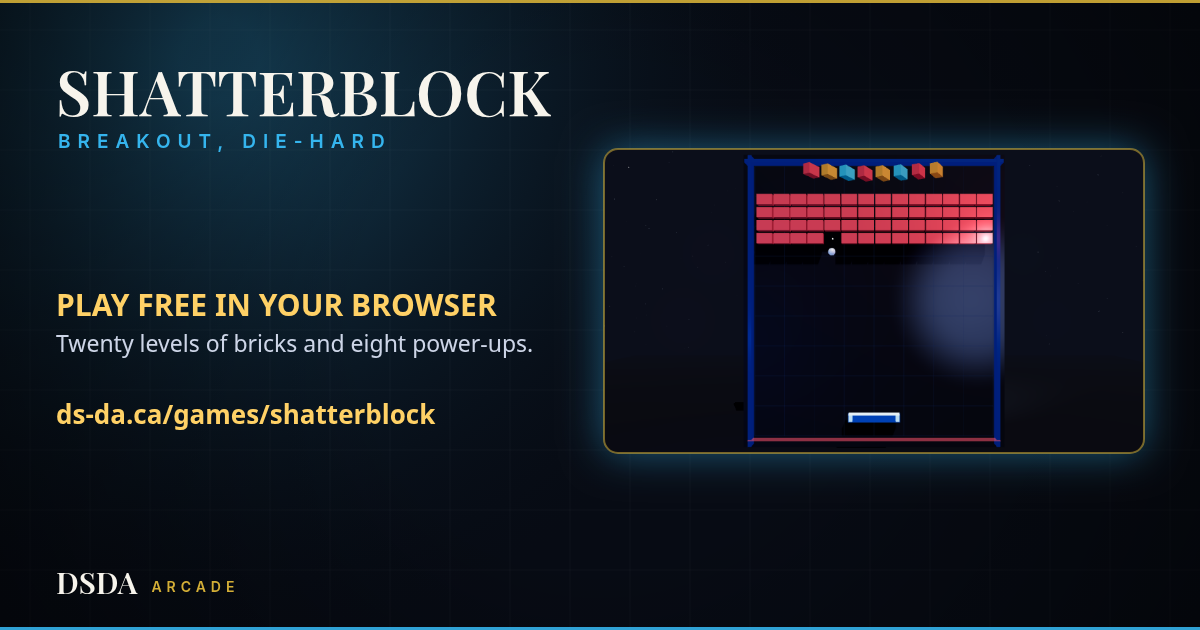
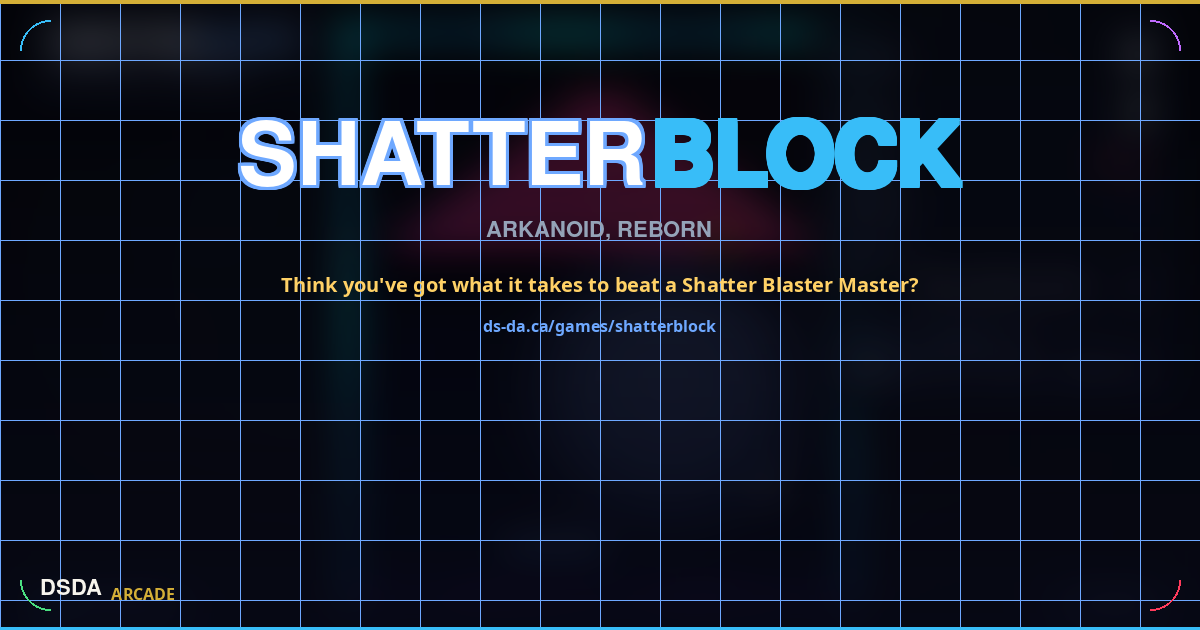
shatterblock: new cabinet screenshot, OG share graphic, redesigned neon score card (tier titles, challenge line, gradient borders)

diff --git a/games/shatterblock/index.html b/games/shatterblock/index.html
@@ -2581,11 +2581,10 @@ function saveToStorage(name, s) {
   return top;
 }
 
-// ---------------- share score ----------------
-// ---------------- share score (DSDA house card) ----------------
-const SHARE_CARD = { name: 'SHATTERBLOCK', tag: 'Breakout, die-hard', id: 'shatterblock', accent: 0x38bdf8 };
+// ---------------- share score (neon arcade card) ----------------
+const SHARE_CARD = { name: 'SHATTERBLOCK', tag: 'ARKANOID, REBORN', id: 'shatterblock', accent: 0x38bdf8 };
 function shareText(s) {
-  return 'I broke through level ' + level + ' with ' + s + ' in ShatterBlock — think you can beat me? \ud83c\udfae';
+  return 'I broke through level ' + level + ' with ' + s + ' in ShatterBlock — think you got what it takes to beat a Shatter Blaster Master? \ud83c\udfae';
 }
 let __shot = null;
 (function(){ const im = new Image(); im.onload = () => { __shot = im; }; im.src = 'screenshot.png'; })();
@@ -2596,76 +2595,155 @@ function _rr(x, px, py, w, h, r) {
   x.beginPath();
   x.moveTo(px + r, py);
   x.arcTo(px + w, py, px + w, py + h, r);
-  x.arcTo(px + w, py + h, px + w, py + h - r, r);
-  x.arcTo(px + w, py + h, px, py + h, r);
-  x.arcTo(px, py + h, px, py + h - r, r);
+  x.arcTo(px + w, py + h, px, py + h - r, r);
+  x.arcTo(px, py + h, px, py + h, r);
+  x.arcTo(px, py + h, px, py + r, r);
   x.arcTo(px, py + r, px, py, r);
-  x.arcTo(px, py, px + r, py, r);
+  x.arcTo(px + r, py, px + w, py, r);
   x.closePath();
 }
 function _spacedL(x, text, px, y, sp) {
   if ('letterSpacing' in x) { x.letterSpacing = sp + 'px'; x.fillText(text, px, y); x.letterSpacing = '0px'; return; }
   for (const ch of text) { x.fillText(ch, px, y); px += x.measureText(ch).width + sp; }
 }
+// tier title based on score (matches the leaderboard tiers)
+function _tierTitle(s) {
+  if (s >= 50000) return 'SHATTER BLASTER MASTER';
+  if (s >= 15000) return 'SHATTER BLASTER';
+  if (s >= 5000) return 'BLASTER';
+  return 'ROOKIE BLASTER';
+}
 async function makeScoreCard(scoreLine, subLine) {
   const W = 1200, H = 630;
   const cv = document.createElement('canvas');
   cv.width = W; cv.height = H;
   const x = cv.getContext('2d');
-  try { if (document.fonts && document.fonts.load) await document.fonts.load('600 62px "Playfair Display"'); } catch (e) {}
   const A = SHARE_CARD.accent;
-  x.fillStyle = '#070b14'; x.fillRect(0, 0, W, H);
-  const g1 = x.createRadialGradient(220, 60, 40, 220, 60, 620);
-  g1.addColorStop(0, _hexA(A, 0.30)); g1.addColorStop(1, 'rgba(0,0,0,0)');
+  const s = parseInt(scoreLine, 10) || 0;
+
+  // --- background: dark navy + subtle grid ---
+  x.fillStyle = '#080a16'; x.fillRect(0, 0, W, H);
+  x.strokeStyle = 'rgba(110,168,255,0.04)'; x.lineWidth = 1;
+  for (let gx = 0; gx < W; gx += 60) { x.beginPath(); x.moveTo(gx, 0); x.lineTo(gx, H); x.stroke(); }
+  for (let gy = 0; gy < H; gy += 60) { x.beginPath(); x.moveTo(0, gy); x.lineTo(W, gy); x.stroke(); }
+
+  // radial glow (cyan, upper-left)
+  const g1 = x.createRadialGradient(200, 80, 30, 200, 80, 500);
+  g1.addColorStop(0, 'rgba(56,189,248,0.18)'); g1.addColorStop(1, 'rgba(0,0,0,0)');
   x.fillStyle = g1; x.fillRect(0, 0, W, H);
-  x.strokeStyle = 'rgba(255,255,255,0.035)'; x.lineWidth = 1;
-  for (let gx = 30; gx < W; gx += 60) { x.beginPath(); x.moveTo(gx, 0); x.lineTo(gx, H); x.stroke(); }
-  for (let gy = 30; gy < H; gy += 60) { x.beginPath(); x.moveTo(0, gy); x.lineTo(W, gy); x.stroke(); }
-  const vg = x.createRadialGradient(W / 2, H / 2, 240, W / 2, H / 2, 760);
-  vg.addColorStop(0, 'rgba(0,0,0,0)'); vg.addColorStop(1, 'rgba(0,0,0,0.55)');
-  x.fillStyle = vg; x.fillRect(0, 0, W, H);
-  x.fillStyle = 'rgba(212,175,55,0.9)'; x.fillRect(0, 0, W, 3);
-  // screenshot inset, right side
-  const sw = 540, sh = 304, sx = W - 56 - sw, sy = (H - sh) / 2 - 14;
+  // radial glow (purple, lower-right)
+  const g2 = x.createRadialGradient(W - 200, H - 100, 30, W - 200, H - 100, 450);
+  g2.addColorStop(0, 'rgba(192,107,255,0.12)'); g2.addColorStop(1, 'rgba(0,0,0,0)');
+  x.fillStyle = g2; x.fillRect(0, 0, W, H);
+
+  // --- accent lines ---
+  x.fillStyle = 'rgba(212,175,55,0.85)'; x.fillRect(0, 0, W, 3);
+  x.fillStyle = 'rgba(56,189,248,0.7)'; x.fillRect(0, H - 3, W, H);
+
+  // --- neon corner accents ---
+  x.lineWidth = 2;
+  x.strokeStyle = 'rgba(56,189,248,0.5)'; x.beginPath(); x.arc(30, 30, 24, Math.PI, Math.PI * 1.5); x.stroke();
+  x.strokeStyle = 'rgba(192,107,255,0.5)'; x.beginPath(); x.arc(W - 30, 30, 24, Math.PI * 1.5, Math.PI * 2); x.stroke();
+  x.strokeStyle = 'rgba(74,222,128,0.4)'; x.beginPath(); x.arc(30, H - 30, 24, Math.PI * 0.5, Math.PI); x.stroke();
+  x.strokeStyle = 'rgba(255,59,92,0.4)'; x.beginPath(); x.arc(W - 30, H - 30, 24, 0, Math.PI * 0.5); x.stroke();
+
+  // --- game screenshot inset (right side, larger) ---
+  const sw = 520, sh = 340, sx = W - 48 - sw, sy = (H - sh) / 2;
   x.save();
-  x.shadowColor = _hexA(A, 0.45); x.shadowBlur = 42;
-  _rr(x, sx, sy, sw, sh, 14);
+  x.shadowColor = 'rgba(56,189,248,0.5)'; x.shadowBlur = 48;
+  _rr(x, sx, sy, sw, sh, 16);
   x.fillStyle = '#0b1220'; x.fill();
   x.restore();
-  if (__shot) { x.save(); _rr(x, sx, sy, sw, sh, 14); x.clip(); x.drawImage(__shot, sx, sy, sw, sh); x.restore(); }
-  x.strokeStyle = 'rgba(212,175,55,0.55)'; x.lineWidth = 2; _rr(x, sx, sy, sw, sh, 14); x.stroke();
-  // title + tag
+  if (__shot) { x.save(); _rr(x, sx, sy, sw, sh, 16); x.clip(); x.drawImage(__shot, sx, sy, sw, sh); x.restore(); }
+  // gradient border on the screenshot
+  x.save();
+  x.lineWidth = 2.5;
+  const bgrad = x.createLinearGradient(sx, sy, sx + sw, sy + sh);
+  bgrad.addColorStop(0, 'rgba(56,189,248,0.7)');
+  bgrad.addColorStop(0.5, 'rgba(192,107,255,0.6)');
+  bgrad.addColorStop(1, 'rgba(74,222,128,0.5)');
+  x.strokeStyle = bgrad;
+  _rr(x, sx, sy, sw, sh, 16); x.stroke();
+  x.restore();
+
+  // --- SHATTERBLOCK title (top-left, split color) ---
   x.textAlign = 'left'; x.textBaseline = 'alphabetic';
-  x.fillStyle = '#f7f4ec';
-  x.font = '600 62px "Playfair Display", Georgia, serif';
-  x.fillText(SHARE_CARD.name, 56, 116);
-  x.fillStyle = _hexA(A, 0.95);
-  x.font = '600 19px "Inter", "Segoe UI", system-ui, sans-serif';
-  _spacedL(x, SHARE_CARD.tag.toUpperCase(), 58, 148, 7);
-  // score (auto-shrink to fit the left zone)
-  const sl = String(scoreLine);
-  let spx = 140;
-  x.font = '800 ' + spx + 'px "Segoe UI", system-ui, -apple-system, sans-serif';
-  while (spx > 56 && x.measureText(sl).width > 520) { spx -= 6; x.font = '800 ' + spx + 'px "Segoe UI", system-ui, -apple-system, sans-serif'; }
-  x.shadowColor = _hexA(A, 0.55); x.shadowBlur = 46;
+  x.font = '900 58px "Segoe UI", system-ui, -apple-system, sans-serif';
+  // SHATTER (white with cyan glow)
+  x.save();
+  x.shadowColor = 'rgba(56,189,248,0.6)'; x.shadowBlur = 28;
   x.fillStyle = '#ffffff';
-  x.fillText(sl, 50, 396);
-  x.shadowBlur = 0;
-  x.fillStyle = 'rgba(222,230,248,0.92)';
-  x.font = '500 29px "Segoe UI", system-ui, sans-serif';
-  x.fillText(subLine, 56, 448);
+  x.fillText('SHATTER', 48, 108);
+  x.restore();
+  // BLOCK (cyan)
+  const shW = x.measureText('SHATTER').width;
+  x.save();
+  x.shadowColor = 'rgba(56,189,248,0.7)'; x.shadowBlur = 32;
+  x.fillStyle = '#38bdf8';
+  x.fillText('BLOCK', 48 + shW + 3, 108);
+  x.restore();
+
+  // tagline
+  x.fillStyle = 'rgba(148,163,184,0.75)';
+  x.font = '600 15px "Segoe UI", system-ui, sans-serif';
+  _spacedL(x, 'ARKANOID, REBORN', 50, 138, 6);
+
+  // --- tier title badge ---
+  const tier = _tierTitle(s);
+  x.font = '700 14px "Segoe UI", system-ui, sans-serif';
+  const tierW = x.measureText(tier).width;
+  const tierX = 50, tierY = 170;
+  // badge background
+  x.save();
+  _rr(x, tierX - 8, tierY - 16, tierW + 16, 28, 8);
+  const tierGrad = x.createLinearGradient(tierX, tierY, tierX + tierW, tierY);
+  tierGrad.addColorStop(0, 'rgba(255,209,102,0.15)');
+  tierGrad.addColorStop(1, 'rgba(255,122,61,0.1)');
+  x.fillStyle = tierGrad; x.fill();
+  x.strokeStyle = 'rgba(255,209,102,0.5)'; x.lineWidth = 1.5; x.stroke();
+  x.restore();
   x.fillStyle = '#ffd166';
-  x.font = '600 26px "Segoe UI", system-ui, sans-serif';
-  x.fillText('ds-da.ca/games/' + SHARE_CARD.id, 56, 490);
-  // DSDA lockup
+  x.fillText(tier, tierX, tierY + 4);
+
+  // --- big score with neon glow ---
+  const sl = String(scoreLine);
+  let spx = 120;
+  x.font = '900 ' + spx + 'px "Segoe UI", system-ui, -apple-system, sans-serif';
+  while (spx > 50 && x.measureText(sl).width > 500) { spx -= 5; x.font = '900 ' + spx + 'px "Segoe UI", system-ui, -apple-system, sans-serif'; }
+  x.save();
+  x.shadowColor = 'rgba(56,189,248,0.7)'; x.shadowBlur = 52;
+  x.fillStyle = '#ffffff';
+  x.fillText(sl, 44, 340);
+  x.restore();
+  // score label
+  x.fillStyle = 'rgba(148,163,184,0.7)';
+  x.font = '600 13px "Segoe UI", system-ui, sans-serif';
+  _spacedL(x, 'FINAL SCORE', 50, 365, 5);
+
+  // --- substat line ---
+  x.fillStyle = 'rgba(222,230,248,0.85)';
+  x.font = '500 22px "Segoe UI", system-ui, sans-serif';
+  x.fillText(subLine, 50, 408);
+
+  // --- challenge line (gold) ---
+  x.fillStyle = '#ffd166';
+  x.font = '600 19px "Segoe UI", system-ui, sans-serif';
+  x.fillText("Think you've got what it takes to beat a Shatter Blaster Master?", 50, 452);
+
+  // --- URL ---
+  x.fillStyle = 'rgba(56,189,248,0.7)';
+  x.font = '500 17px "Segoe UI", system-ui, sans-serif';
+  x.fillText('ds-da.ca/games/' + SHARE_CARD.id, 50, 492);
+
+  // --- DSDA lockup (bottom-left) ---
   x.fillStyle = '#f7f4ec';
-  x.font = '600 30px "Playfair Display", Georgia, serif';
-  x.fillText('DSDA', 56, 594);
+  x.font = '700 26px "Segoe UI", system-ui, sans-serif';
+  x.fillText('DSDA', 48, 580);
   const dw = x.measureText('DSDA').width;
   x.fillStyle = '#d4af37';
-  x.font = '600 14px "Inter", "Segoe UI", sans-serif';
-  _spacedL(x, 'ARCADE', 58 + dw + 12, 592, 5);
-  x.fillStyle = _hexA(A, 0.85); x.fillRect(0, H - 3, W, 3);
+  x.font = '600 13px "Segoe UI", system-ui, sans-serif';
+  _spacedL(x, 'ARCADE', 50 + dw + 10, 578, 4);
+
   return cv;
 }
 
